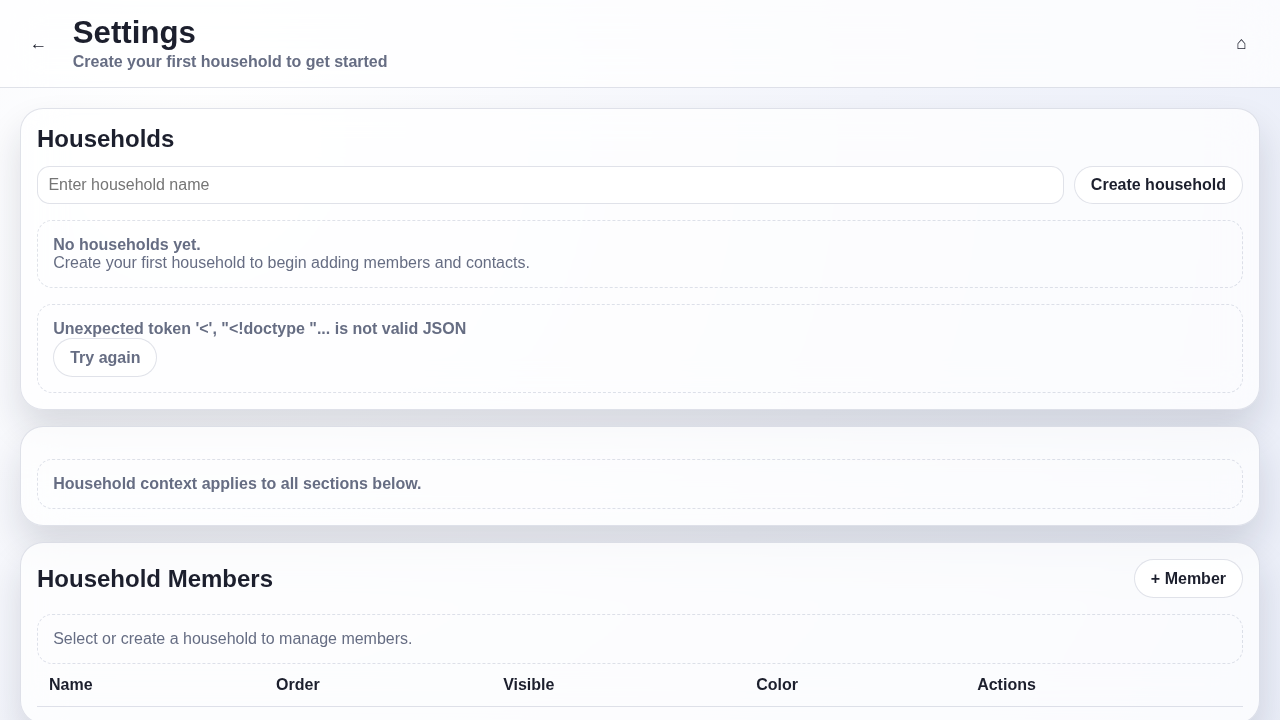
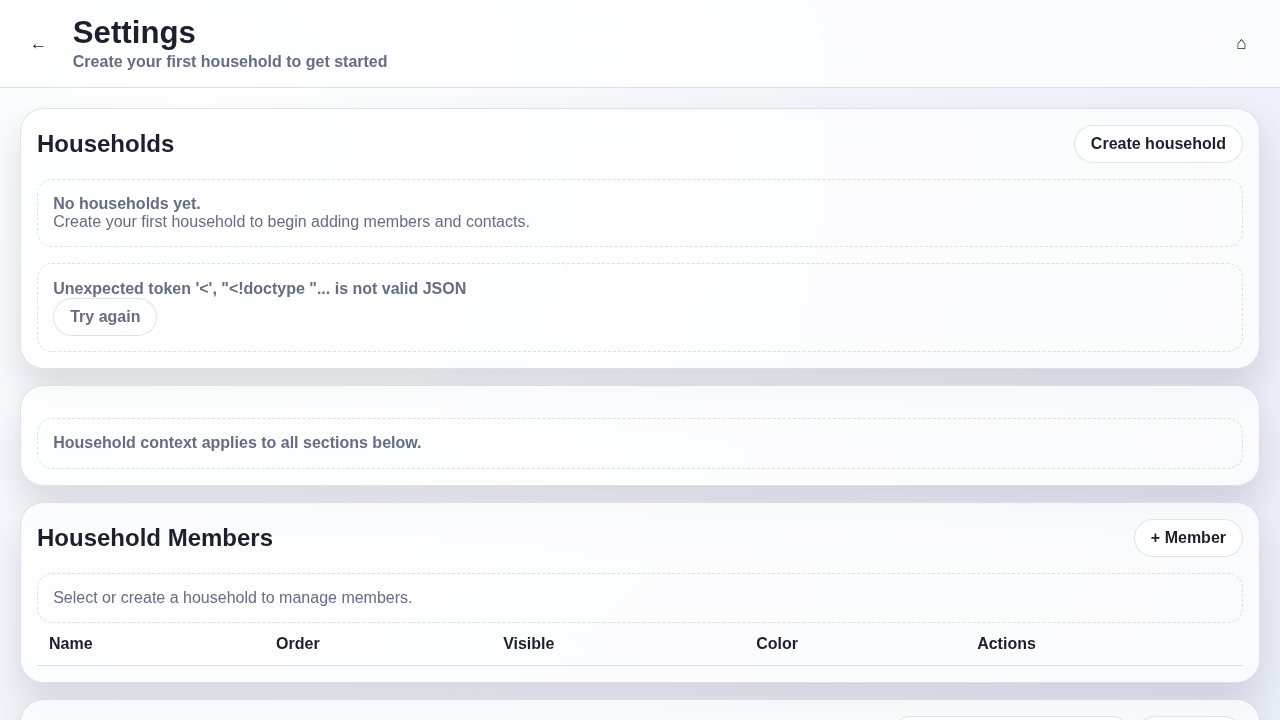
Use dialog for household creation flow

diff --git a/frontend/src/App.tsx b/frontend/src/App.tsx
@@ -1,5 +1,6 @@
 import { FormEvent, useEffect, useMemo, useState } from "react";
 import { ContactDialog } from "./components/ContactDialog";
+import { HouseholdDialog } from "./components/HouseholdDialog";
 import { MemberDialog } from "./components/MemberDialog";
 import { Contact, FamilyMember, MemberAvatarColor } from "./types/family";
 
@@ -540,6 +541,7 @@ function SettingsPage({
   const [newHouseholdName, setNewHouseholdName] = useState("");
   const [createHouseholdSubmitted, setCreateHouseholdSubmitted] = useState(false);
   const [createHouseholdError, setCreateHouseholdError] = useState<string | null>(null);
+  const [householdModalOpen, setHouseholdModalOpen] = useState(false);
   const [memberFormState, setMemberFormState] = useState<MemberFormState>(buildMemberFormState);
   const [contactFormState, setContactFormState] = useState<ContactFormState>(buildContactFormState);
   const [memberModalOpen, setMemberModalOpen] = useState(false);
@@ -570,7 +572,23 @@ function SettingsPage({
 
   const createHouseholdNameError = createHouseholdSubmitted && !newHouseholdName.trim();
 
-  const submitCreateHousehold = async (event: FormEvent) => {
+  const openAddHousehold = () => {
+    setCreateHouseholdSubmitted(false);
+    setCreateHouseholdError(null);
+    setNewHouseholdName("");
+    setHouseholdModalOpen(true);
+  };
+
+  const closeAddHousehold = () => {
+    if (isCreatingHousehold) {
+      return;
+    }
+    setHouseholdModalOpen(false);
+    setCreateHouseholdSubmitted(false);
+    setCreateHouseholdError(null);
+  };
+
+  const submitCreateHousehold = async (event: FormEvent<HTMLFormElement>) => {
     event.preventDefault();
     setCreateHouseholdSubmitted(true);
     const trimmedName = newHouseholdName.trim();
@@ -587,6 +605,7 @@ function SettingsPage({
     setCreateHouseholdError(null);
     setCreateHouseholdSubmitted(false);
     setNewHouseholdName("");
+    setHouseholdModalOpen(false);
   };
 
   const openAddMember = () => {
@@ -810,26 +829,10 @@ function SettingsPage({
         <section className="settings-card">
           <div className="section-toolbar">
             <h2>Households</h2>
-          </div>
-
-          <form className="inline-controls household-create-controls" onSubmit={submitCreateHousehold}>
-            <input
-              aria-label="Household name"
-              type="text"
-              value={newHouseholdName}
-              onChange={(event) => {
-                setNewHouseholdName(event.target.value);
-                setCreateHouseholdError(null);
-              }}
-              placeholder="Enter household name"
-              disabled={isCreatingHousehold || isContextLoading}
-            />
-            <button type="submit" className="primary-pill no-wrap-button" disabled={isCreatingHousehold || isContextLoading}>
-              {isCreatingHousehold ? "Creating…" : "Create household"}
+            <button type="button" className="primary-pill no-wrap-button" onClick={openAddHousehold} disabled={isCreatingHousehold || isContextLoading}>
+              Create household
             </button>
-          </form>
-          {createHouseholdNameError ? <p role="alert">Household name is required.</p> : null}
-          {createHouseholdError ? <p role="alert">{createHouseholdError}</p> : null}
+          </div>
 
           {households.length === 0 ? (
             <div className="coming-soon-card">
@@ -887,6 +890,20 @@ function SettingsPage({
               <strong>Loading selected household…</strong>
             </div>
           ) : null}
+
+          <HouseholdDialog
+            open={householdModalOpen}
+            householdName={newHouseholdName}
+            householdNameError={createHouseholdNameError}
+            requestError={createHouseholdError}
+            isSubmitting={isCreatingHousehold}
+            onClose={closeAddHousehold}
+            onSubmit={submitCreateHousehold}
+            onHouseholdNameChange={(value) => {
+              setNewHouseholdName(value);
+              setCreateHouseholdError(null);
+            }}
+          />
         </section>
 
         <section className="settings-card">

diff --git a/frontend/src/components/HouseholdDialog.tsx b/frontend/src/components/HouseholdDialog.tsx
@@ -1,0 +1,112 @@
+import { FormEvent } from "react";
+import { Box, Button, Typography, useMediaQuery } from "@mui/material";
+import { styled, useTheme } from "@mui/material/styles";
+import {
+  DialogActionsBar,
+  DialogContentPanel,
+  DialogDescription,
+  DialogHeader,
+  FieldTitle,
+  FormField,
+  GlassDialog,
+  GlassPanel,
+  GradientButton,
+} from "./GlassFormDialog";
+
+const HouseholdDetailsSection = styled(Box)(({ theme }) => ({
+  display: "grid",
+  gap: theme.spacing(2),
+}));
+
+interface HouseholdDialogProps {
+  open: boolean;
+  householdName: string;
+  householdNameError: boolean;
+  requestError: string | null;
+  isSubmitting: boolean;
+  onClose: () => void;
+  onSubmit: (event: FormEvent<HTMLFormElement>) => void;
+  onHouseholdNameChange: (value: string) => void;
+}
+
+export function HouseholdDialog({
+  open,
+  householdName,
+  householdNameError,
+  requestError,
+  isSubmitting,
+  onClose,
+  onSubmit,
+  onHouseholdNameChange,
+}: HouseholdDialogProps) {
+  const theme = useTheme();
+  const fullScreen = useMediaQuery(theme.breakpoints.down("sm"));
+  const titleId = "household-dialog-title";
+  const descriptionId = "household-dialog-description";
+
+  return (
+    <GlassDialog open={open} onClose={onClose} aria-labelledby={titleId} aria-describedby={descriptionId} fullScreen={fullScreen}>
+      <Box component="form" onSubmit={onSubmit} noValidate>
+        <DialogHeader>
+          <Typography id={titleId} variant="h5" component="h2" sx={{ fontWeight: 700 }}>
+            Create household
+          </Typography>
+          <Button
+            type="button"
+            onClick={onClose}
+            aria-label="Close household dialog"
+            sx={{ minWidth: "auto", color: "var(--text-primary)", borderRadius: "999px" }}
+          >
+            ✕
+          </Button>
+        </DialogHeader>
+
+        <DialogContentPanel>
+          <DialogDescription id={descriptionId} variant="body2">
+            Create a household workspace to manage members and contact lists in that context.
+          </DialogDescription>
+
+          <GlassPanel>
+            <FieldTitle variant="subtitle1">Household details</FieldTitle>
+            <HouseholdDetailsSection>
+              <FormField
+                required
+                label="Household name"
+                autoFocus
+                slotProps={{ inputLabel: { shrink: true } }}
+                value={householdName}
+                error={householdNameError || Boolean(requestError)}
+                helperText={householdNameError ? "Household name is required." : requestError ?? " "}
+                onChange={(event) => onHouseholdNameChange(event.target.value)}
+              />
+            </HouseholdDetailsSection>
+          </GlassPanel>
+        </DialogContentPanel>
+
+        <DialogActionsBar>
+          <Button
+            type="button"
+            onClick={onClose}
+            variant="outlined"
+            sx={{
+              borderRadius: "999px",
+              color: "var(--dialog-muted)",
+              borderColor: "var(--dialog-border)",
+              textTransform: "none",
+              minHeight: 42,
+              "&:hover": {
+                borderColor: "var(--accent-strong)",
+                background: "rgba(127, 139, 255, 0.12)",
+              },
+            }}
+          >
+            Cancel
+          </Button>
+          <GradientButton type="submit" variant="contained" disableElevation disabled={isSubmitting}>
+            {isSubmitting ? "Creating…" : "Create household"}
+          </GradientButton>
+        </DialogActionsBar>
+      </Box>
+    </GlassDialog>
+  );
+}

diff --git a/frontend/src/App.css b/frontend/src/App.css
@@ -236,10 +236,6 @@ body,
   gap: 0.6rem;
 }
 
-.household-create-controls {
-  margin-bottom: 0.75rem;
-}
-
 .inline-controls input,
 .toolbar-controls input,
 .settings-card input,

diff --git a/CHANGELOG.md b/CHANGELOG.md
@@ -3,6 +3,7 @@
 ## Unreleased
 
 - Replaced Household Setting with a first-class Households workspace section, including household creation, selected-state badge, and one-click household switching.
+- Updated household creation to use a dedicated dialog consistent with the member/contact create flows.
 - Added active household context loading/retry behavior so household members and contact lists reload when switching households.
 - Added household API workspace endpoints for listing and creating households: `GET /api/households` and `POST /api/households`.
 - Hardened household-scoped writes by rejecting member/contact IDs that are not already part of the active household.
